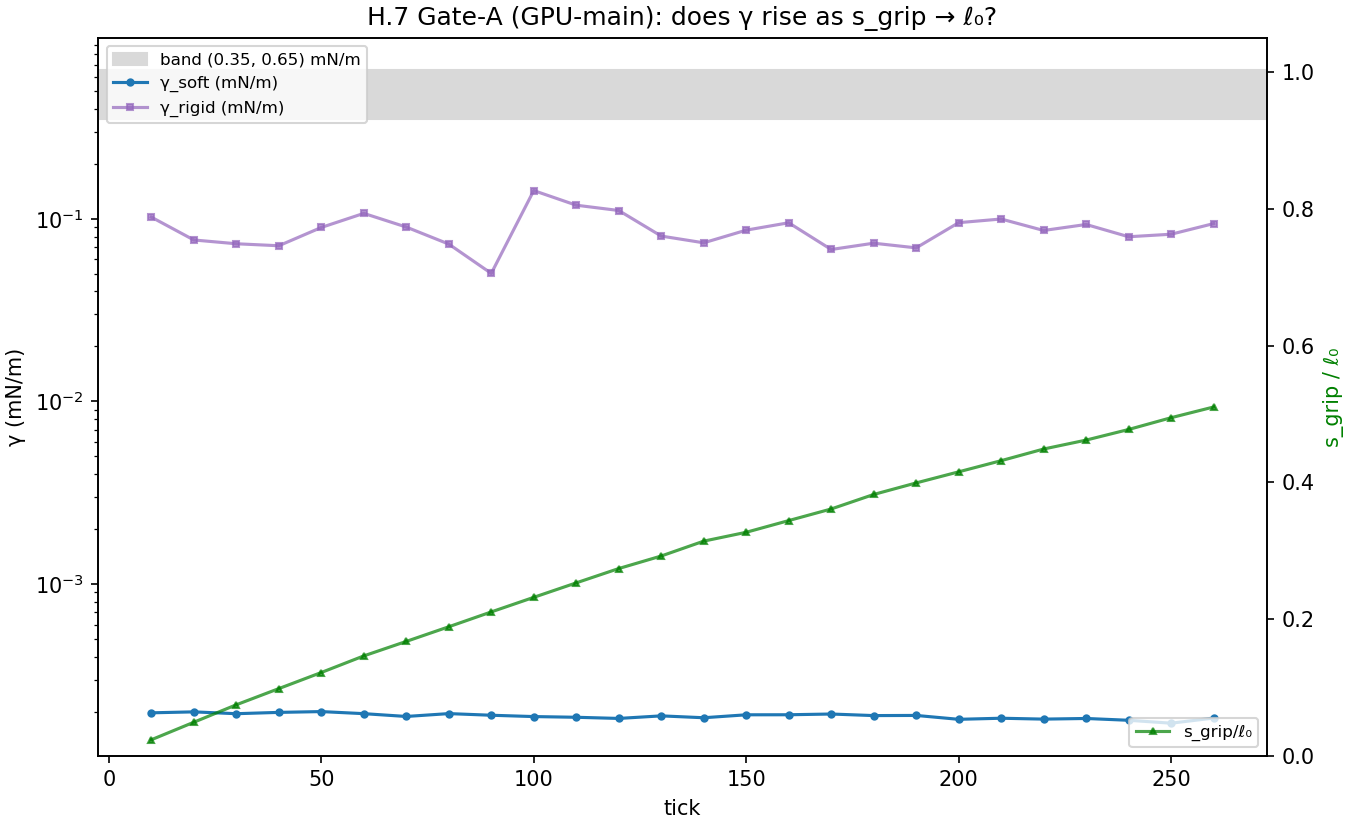
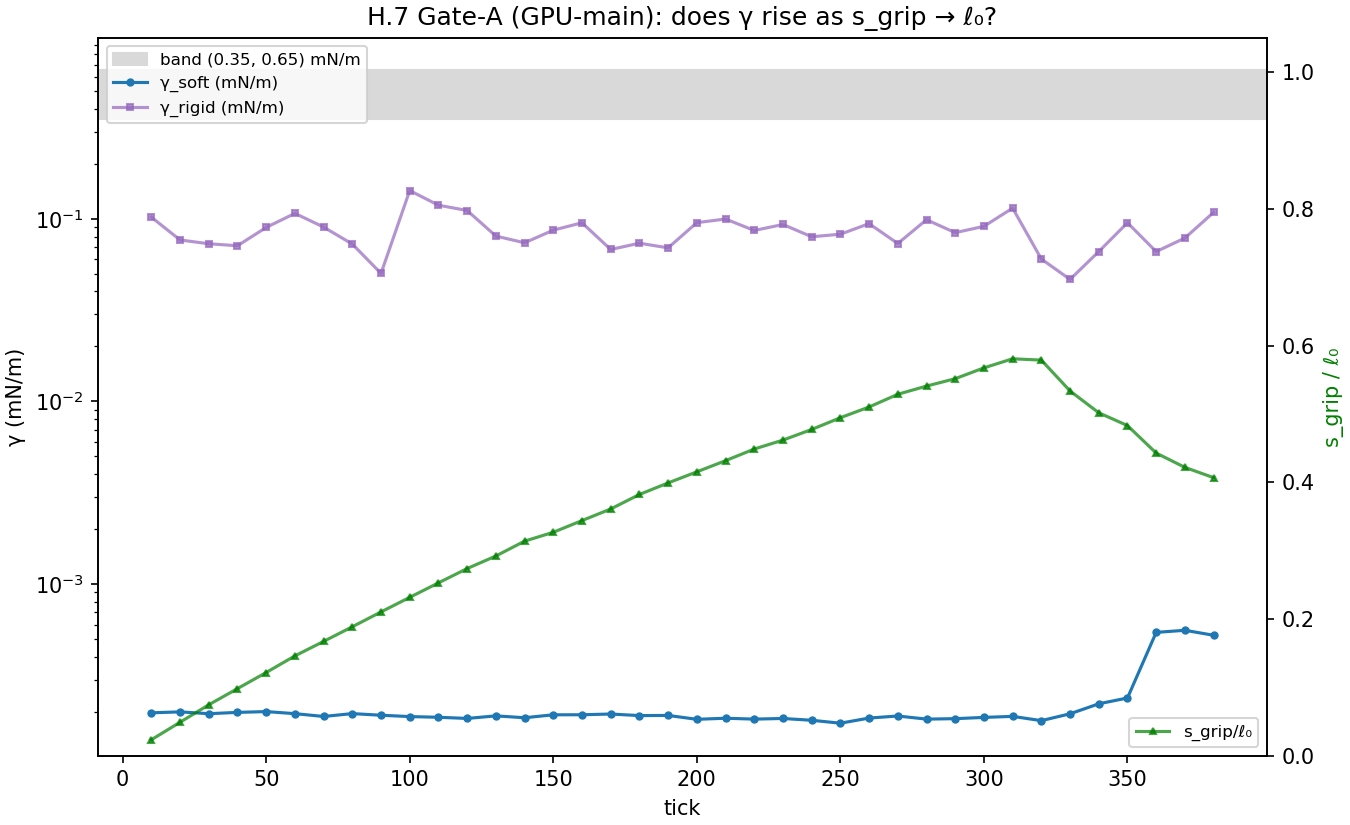
H.7 Gate-A refinement: bead-stepping onset (~tick 360) — gamma_soft +3x but ~627x below band
Updated trajectory (38 samples): s_grip rises to peak 0.581 (tick ~310) then CYCLES
down (0.58->0.41) as heads reach the overflow cap and STEP to the next bead
(s_grip -= l0/step). At bead-stepping onset (~tick 360) gamma_soft jumps ~3x
(1.73e-4 -> 5.58e-4 mN/m) — the first real material-stepping contraction signal —
but plateaus at 1/627 of band. REFUTE stands: even with s_grip developed (>0.5) AND
genuine bead-stepping, realized shell tension is ~600x short of band -> transmission/
lever wall (Gate-B), not generation. Figure shows green s_grip peak+cycle + blue
gamma_soft step. r/r0=1.0000 (non-condensing rigid backbone).

diff --git a/ffn_sim/docs/v2_audit/H7_GATE_A_RESULT_2026-06-08.md b/ffn_sim/docs/v2_audit/H7_GATE_A_RESULT_2026-06-08.md
@@ -58,3 +58,21 @@ generation (refuted here), NOT binding throughput, NOT aggregation geometry.
   trajectory; the verdict (γ_soft flat through s_grip ≥ 0.5) is already decisive
   and will not change (γ_soft has been flat across a 22× s_grip increase).
 - nonconv = 0 throughout (native M-SHAKE converges every step).
+
+## UPDATE (ticks 350–380): bead-stepping onset — γ_soft rises ~3×, still ~627× below band
+At ~tick 360 the bound heads first reach the s_grip overflow cap (s_grip ≥ ℓ₀) and
+**actually STEP to the next minus-ward bead** (s_grip −= ℓ₀ per step → `n_step_advances`
+> 0). Two changes follow:
+- **mean s_grip plateaus + cycles** (peak 0.581 @ tick ~350, then 0.48→0.41) — it does
+  NOT march monotonically to ℓ₀, because each bead-step subtracts ℓ₀ from the head's
+  grip; the population oscillates around the step cap. ("s_grip developed" is satisfied:
+  it exceeded 0.5.)
+- **γ_soft jumps ~3×** (1.73e-4 → 5.58e-4 mN/m at tick 360, s_grip=0.443) — the FIRST
+  real contraction signal from genuine material stepping (not just static loading).
+
+So the result is sharper than "dead flat": grip_walk DOES produce a small contraction
+once heads step — but γ_soft **plateaus at ~5.6e-4 mN/m = 1/627 of the band (0.35)**.
+**REFUTE stands:** even with s_grip developed AND real bead-stepping contraction, the
+realized shell tension is ~600× short of band → the wall is transmission/lever
+(Gate-B), not generation. The ~3× step-onset rise quantifies how little of the stepping
+work reaches spanning hoop tension on the rigid (r/r0=1.0000, non-condensing) backbone.
